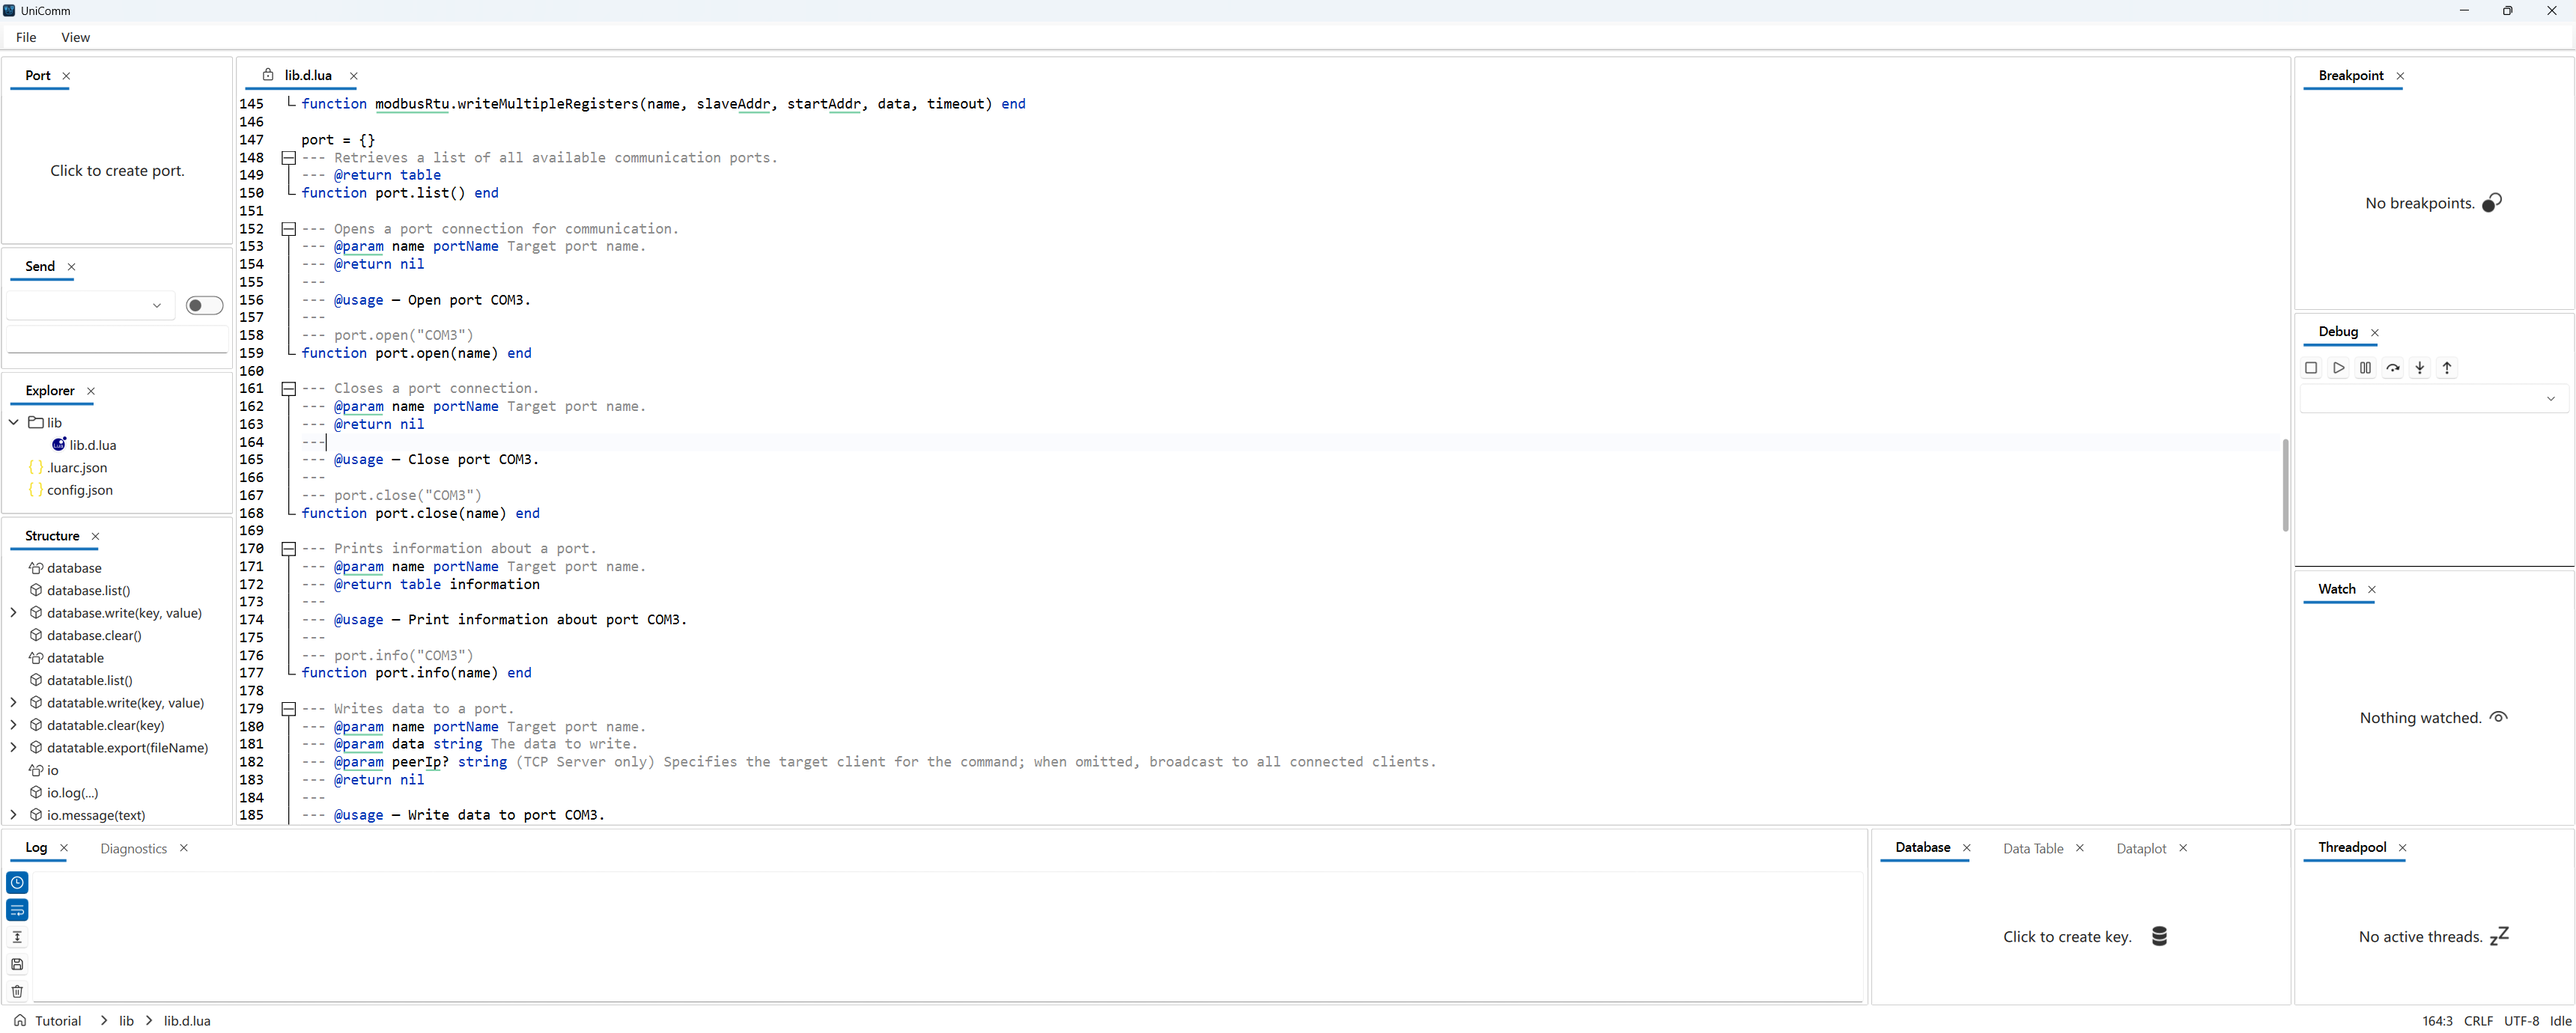
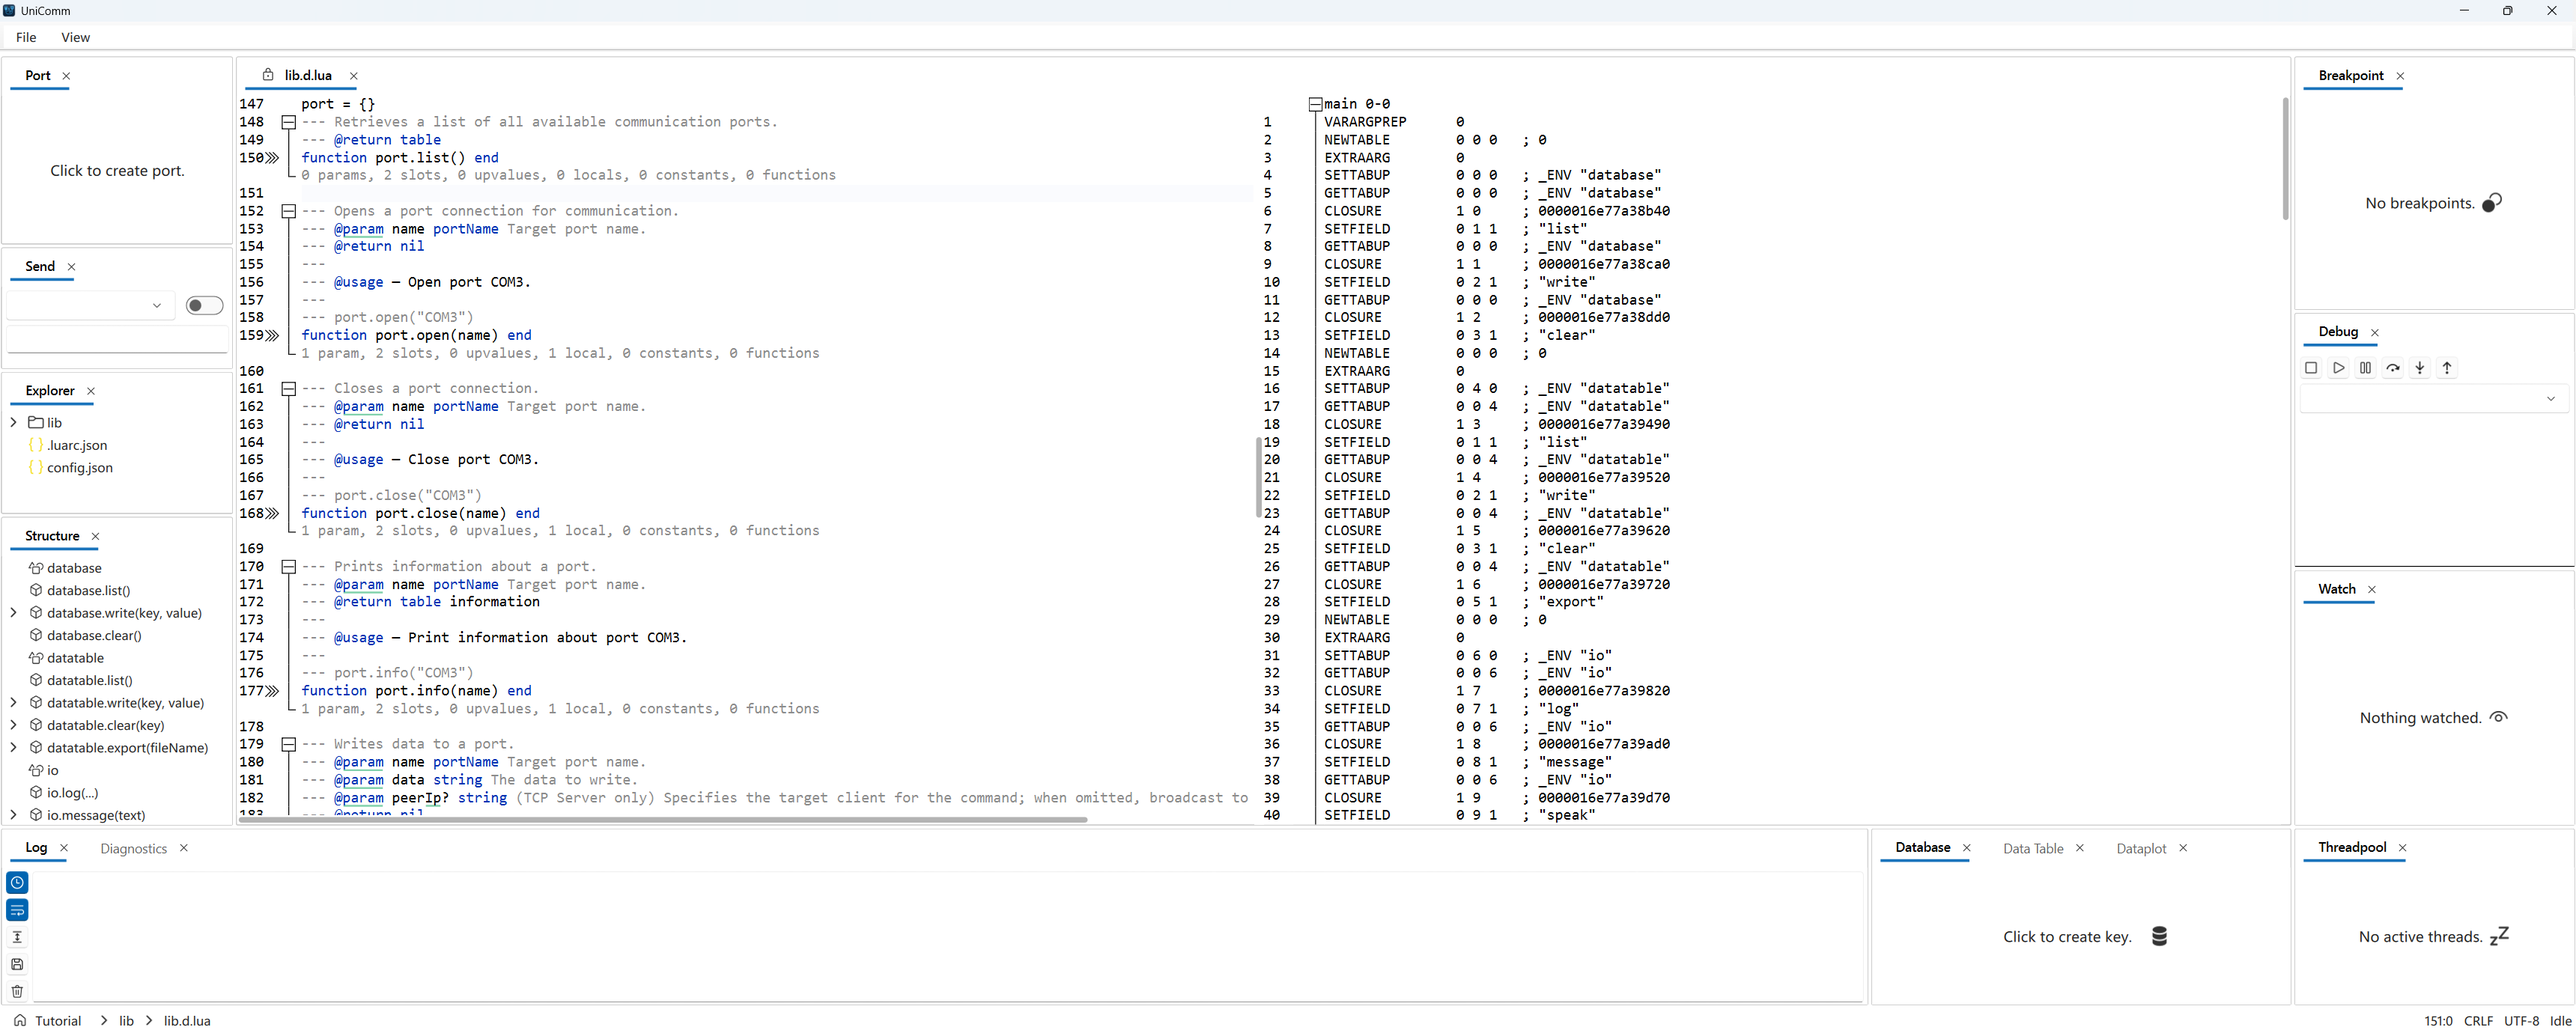
md update

Changed region(s): [[0.0933, 0.0935, 0.6532, 0.8101], [0.0933, 0.0935, 0.4044, 0.3428], [0.0, 0.4051, 0.0311, 0.4362]]

diff --git a/readme.md b/readme.md
@@ -91,7 +91,8 @@ gantt
 
     section coding
         scintilla migration: done, 02-11, 30d
-        status bar: done, 03-13, 3d
+        status bar: done, 03-10, 3d
+        assembly view: active, 03-13, 19d
         textDocument/rename: 04-01, 30d
         search bar: 04-01, 30d
         git integration: 05-01, 31d
